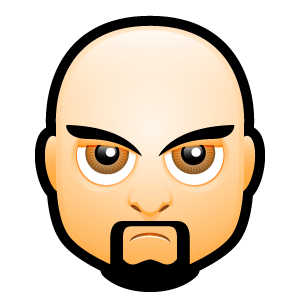
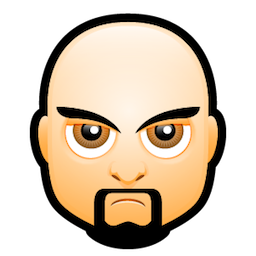
resize assets power of 2

diff --git a/index.html b/index.html
@@ -175,7 +175,6 @@
 <script type="text/javascript" src="js/code.js"></script>
 <script type="text/javascript" src="js/script.js"></script>
 <script type="text/javascript" src="js/server.js"></script>
-<script type="text/javascript" src="js/canvasPainter.js"></script>
 
 <script src="js/Projector.js"></script>
 <script src="js/CanvasRenderer.js"></script>
